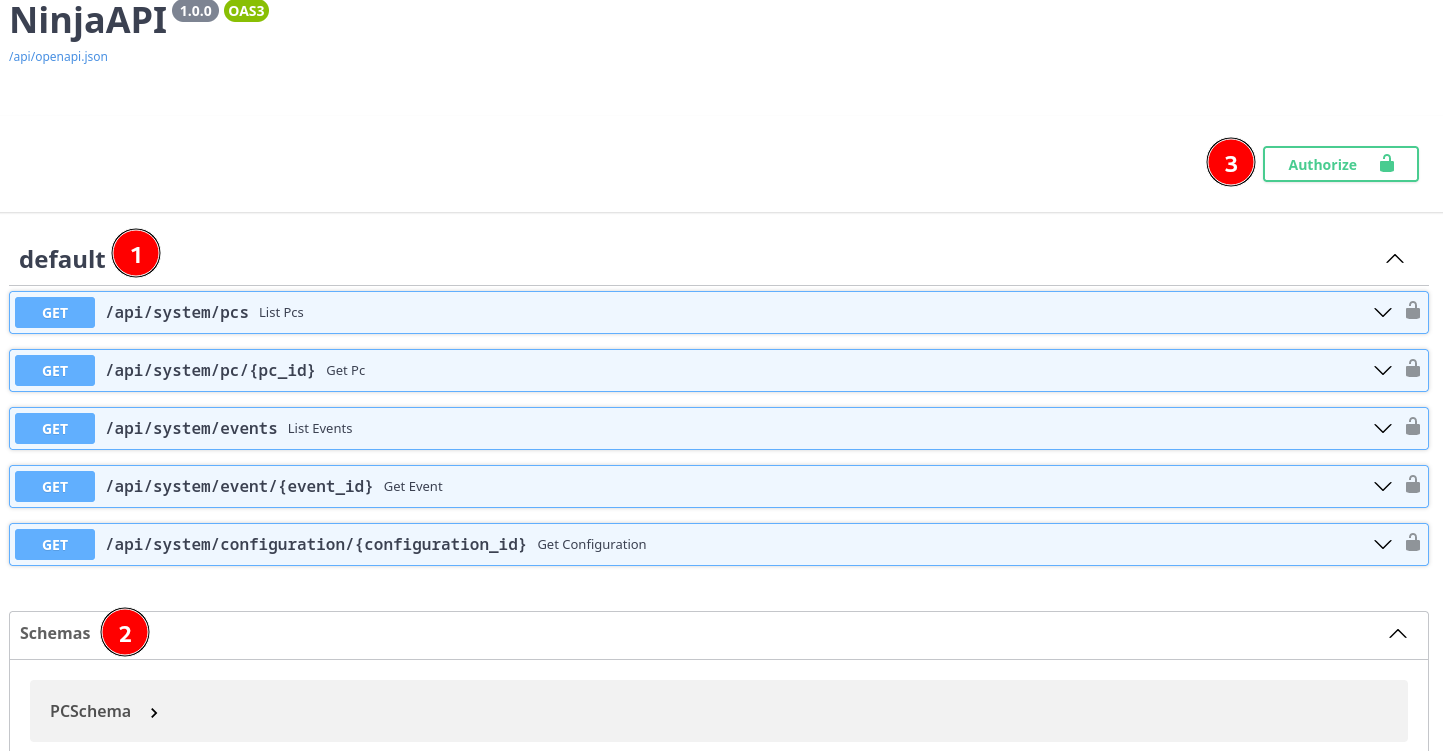
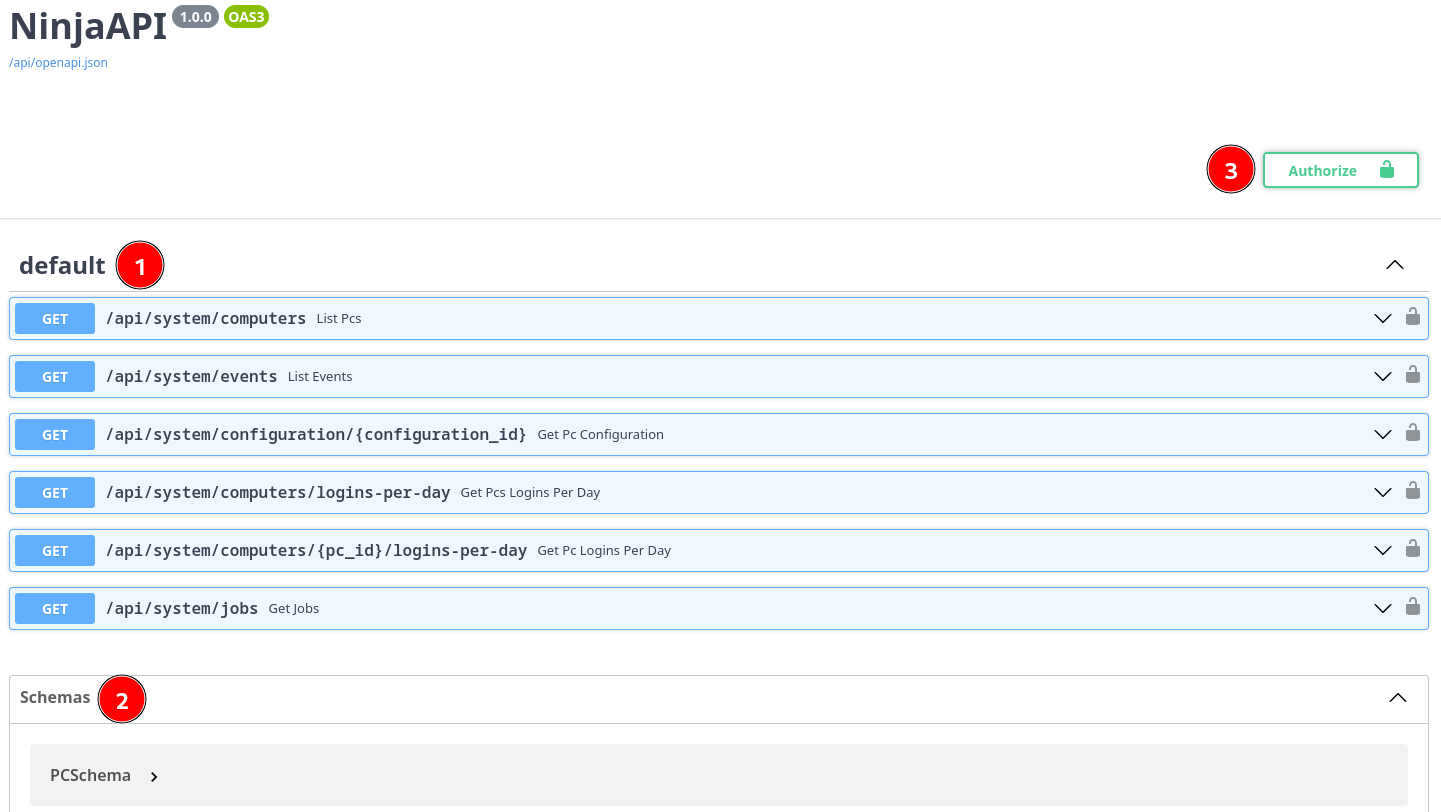
Final touches and fixes to the API, e.g. to translations, migrations, docs

diff --git a/admin_site/templates/system/site_image_versions.html b/admin_site/templates/system/site_image_versions.html
@@ -8,7 +8,7 @@
     {% if site_allowed %}
       {% for platform_choice, platform_readable in platform_choices.items %}
       <li class="{% if platform_choice|slugify == selected_platform.0|slugify %}active{% endif %}">
-      <a class="item-list-link" href="/site/{{ site.url }}/image-versions/{{ platform_choice|slugify }}">
+      <a class="item-list-link" href="/site/{{ site.url }}/image_versions/{{ platform_choice|slugify }}">
         <span clas="d-flex align-items-center">
           {{ platform_readable }}
         </span>

diff --git a/admin_site/templates/site_with_navigation.html b/admin_site/templates/site_with_navigation.html
@@ -118,7 +118,7 @@ detailpage
     </a>
 
     {% set_css_class_active request.resolver_match.url_name "image-version" as current_url_image_versions %}
-    <a class="nav-link link-light {{ current_url_image_versions }}" href="{% url 'image-versions' slug=site.url %}">
+    <a class="nav-link link-light {{ current_url_image_versions }}" href="{% url 'image_versions' slug=site.url %}">
       <span class="material-icons"> cloud_download </span> {% translate "Versions" %}
     </a>
     <hr>

diff --git a/admin_site/system/api.py b/admin_site/system/api.py
@@ -12,14 +12,12 @@ from .models import (
     APIKey,
     Configuration,
     ConfigurationEntry,
-    EventLevels,
     Job,
     PC,
     SecurityEvent,
 )
 from .api_schemas import (
     ConfigurationEntrySchema,
-    Error,
     JobSchema,
     PCSchema,
     PCLoginsSchema,
@@ -119,8 +117,11 @@ def list_events(
     # Do we filter on do occurred_time, reported_time or created? Or multiple of them? Maybe occurred?
     events = SecurityEvent.objects.filter(
         (Q(problem__site=site) | Q(event_rule_server__site=site)),
-        occurred_time__range=[from_date, to_date],
-        status=status,
+        occurred_time__range=[
+            from_date,
+            to_date + relativedelta(days=1),
+        ],  # +1 to include the full to_date
+        status=status.upper(),
     ).order_by(
         "-id"
     )  # or -occurred_time, but ID is probably faster
@@ -175,7 +176,6 @@ def get_pcs_logins_per_day(
             pc_names_with_logins.append({"pc_name": pc.name, "logins_per_day": logins})
 
     if pc_names_with_logins:
-        print(type(pc_names_with_logins[0]))  # TODO: Debugging
         return 200, pc_names_with_logins
     else:
         return 204, None
@@ -206,7 +206,6 @@ def get_pc_logins_per_day(
             validate_sensible_dates(from_date, to_date)
             logins = filter_logins(logins, from_date, to_date)
 
-        print(type({"pc_name": pc.name, "logins_per_day": logins}))
         return 200, {"pc_name": pc.name, "logins_per_day": logins}
     elif pc:
         return 200, {"pc_name": pc.name, "logins_per_day": ""}
@@ -232,7 +231,11 @@ def get_jobs(
     validate_sensible_dates(from_date, to_date)
     site = get_site_from_request(request)
     jobs = Job.objects.filter(
-        batch__site=site, created__range=[from_date, to_date]
+        batch__site=site,
+        created__range=[
+            from_date,
+            to_date + relativedelta(days=1),
+        ],  # +1 to include the full to_date
     ).order_by(
         "-id"
     )  # or -created, but ID is probably faster

diff --git a/admin_site/system/views.py b/admin_site/system/views.py
@@ -346,6 +346,7 @@ class SiteSettings(UpdateView, SiteView):
 class TwoFactor(SiteView, SiteMixin):
     template_name = "system/site_two_factor_pc.html"
 
+
 class APIKeyUpdate(UpdateView, SiteView, DeletionMixin):
     # form_class = ?
     template_name = "system/site_settings/api_keys/api_keys.html"
@@ -3464,7 +3465,7 @@ class DocView(TemplateView, LoginRequiredMixin):
         docnames = self.docname.split("/")
 
         # Returns the first site the user is a member of
-        context["site"] = self.request.user.bibos_profile.sites.first()
+        context["site"] = self.request.user.user_profile.sites.first()
 
         context["menu_active"] = docnames[0]
 

diff --git a/admin_site/system/utils.py b/admin_site/system/utils.py
@@ -158,8 +158,8 @@ def set_notification_cookie(response, message, error=False):
     response.set_cookie("page-notification", quote(json.dumps(descriptor), safe=""))
 
 
-def notification_changes_saved(response, bibos_profile_language):
-    translation.activate(bibos_profile_language)
+def notification_changes_saved(response, user_profile_language):
+    translation.activate(user_profile_language)
     set_notification_cookie(response, _("Changes have been saved %s") % "")
     translation.deactivate()
 

diff --git a/admin_site/system/migrations/0074_apikey.py b/admin_site/system/migrations/0074_apikey.py
@@ -6,7 +6,7 @@ import django.db.models.deletion
 
 class Migration(migrations.Migration):
     dependencies = [
-        ("system", "0072_eventruleserver_alter_securityevent_problem_and_more"),
+        ("system", "0073_citizen_logged_in_and_more"),
     ]
 
     operations = [
